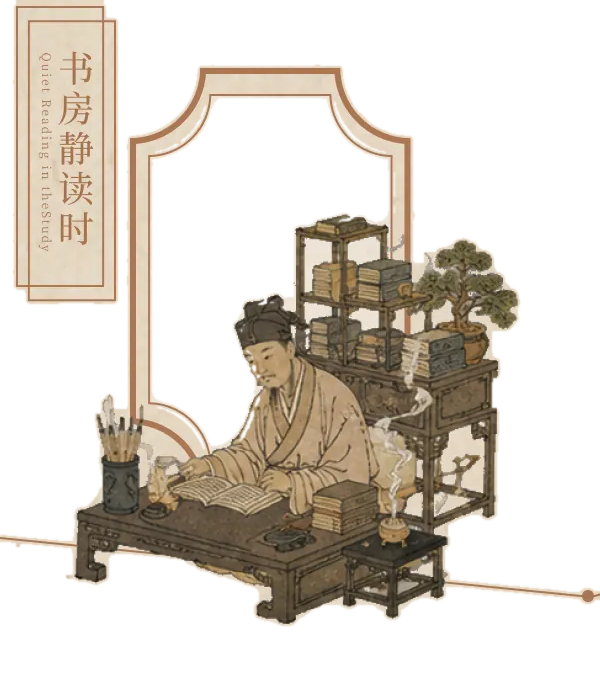
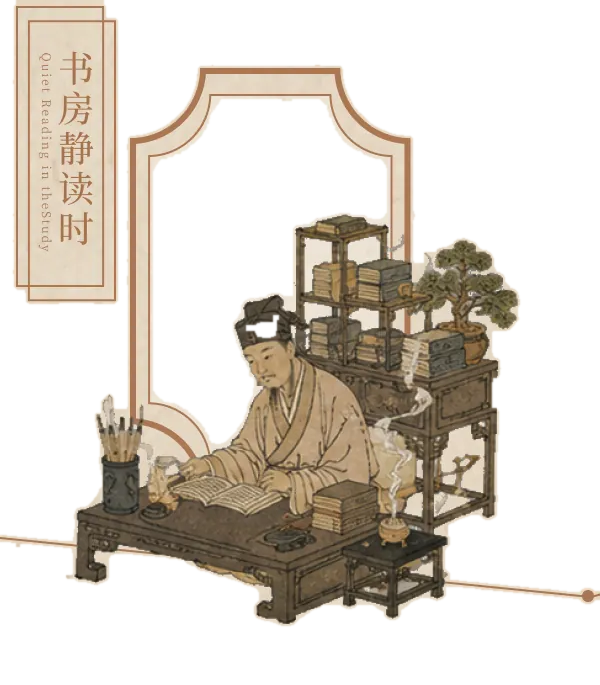
feat: 宋韵寻香「使用场景」四张卡可悬停/选中——框内宣纸亮起、人物随之提亮
- 从 05-scene 设计稿拆出四组透明素材（拱形框+人物+竖牌）与框内白板
- 悬停/选中：白板淡入 0.38s、素材轻微提亮，点一下选中、再点取消
- tools/build_scene.py 可复现素材生成

diff --git a/projects/songyun/index.html b/projects/songyun/index.html
@@ -89,10 +89,10 @@ body{font-family:"Songti SC","STSong","Noto Serif SC",serif;-webkit-font-smoothi
 .scene-card__paper{opacity:0;transition:opacity .38s var(--ease)}
 .scene-card__art{transition:filter .38s var(--ease)}
 .scene-card:hover .scene-card__paper,
-.scene-card.is-on .scene-card__paper{opacity:.95}
+.scene-card.is-on .scene-card__paper{opacity:.96}
 .scene-card:hover .scene-card__art,
 .scene-card.is-on .scene-card__art{
-  filter:brightness(1.02) contrast(1.06) saturate(1.06);
+  filter:brightness(1.02) contrast(1.08) saturate(1.06);
 }
 
 /* 香料配方：悬停香气出详情（不可点击） */

diff --git a/projects/songyun/tools/build_scene.py b/projects/songyun/tools/build_scene.py
@@ -1,6 +1,8 @@
 #!/usr/bin/env python3
 """拆「使用场景」四个可动卡片：透明人像素材 + 框内白板（两层叠放）。
 
+用法：cd projects/songyun && python3 tools/build_scene.py
+
 输出 img/
   scene-card-N.webp        透明素材（框线 + 人物 + 竖牌），框内纸面已挖空
   scene-card-white-N.webp  框内白板（纯白，alpha = 拱形框内区域）
@@ -153,15 +155,16 @@ for i, c in enumerate(CARDS, 1):
         ins[yy0:yy1, :] = False
 
     alpha = np.asarray(Image.fromarray((fg * 255).astype(np.uint8)).filter(ImageFilter.GaussianBlur(0.8))).astype(np.float32)
-    Image.fromarray(np.dstack([roi, alpha]).astype(np.uint8), 'RGBA').save(f'/tmp/scene-card-{i}.png')
+    Image.fromarray(np.dstack([roi, alpha]).astype(np.uint8), 'RGBA').save(
+        f'img/scene-card-{i}.webp', 'WEBP', lossless=True, quality=100, method=6)
 
     wa = np.asarray(Image.fromarray((ins * 255).astype(np.uint8)).filter(ImageFilter.GaussianBlur(1.4))).astype(np.float32)
     white = np.dstack([np.full(roi.shape, 255, np.float32), wa]).astype(np.uint8)
-    Image.fromarray(white, 'RGBA').save(f'/tmp/scene-card-white-{i}.png')
+    Image.fromarray(white, 'RGBA').save(
+        f'img/scene-card-white-{i}.webp', 'WEBP', lossless=True, quality=100, method=6)
 
     meta.append(dict(n=i, left=x0, top=y0, w=x1 - x0, h=y1 - y0))
     print(i, 'fg', int(fg.sum()), 'ins', int(ins.sum()))
 
-json.dump(meta, open('/tmp/scene-meta.json', 'w'), indent=1)
 for m in meta:
     print(f'card{m["n"]}: {m["left"]/W*100:.3f}% {m["top"]/H*100:.3f}% {m["w"]/W*100:.3f}% {m["h"]/H*100:.3f}%')
